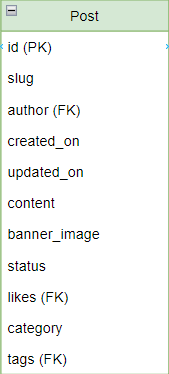
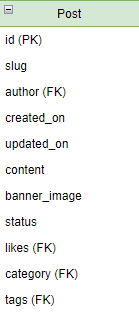
Change - Changed Database Scheme
Added FK descriptor in Post table.
Changed content descriptor to title.
Added Category Table.

Changed region(s): [[0.0, 0.0, 1.0, 1.0]]

diff --git a/docs/PLANNING.md b/docs/PLANNING.md
@@ -242,6 +242,10 @@ Below are the planned fields for each table in the database for the site. Create
 
 ![Post Table](images/table-post.png)
 
+**Category Table:**
+
+![Category Table](images/table-category.png)
+
 **Comment Table:**
 
 ![Comment Table](images/table-comment.png)
